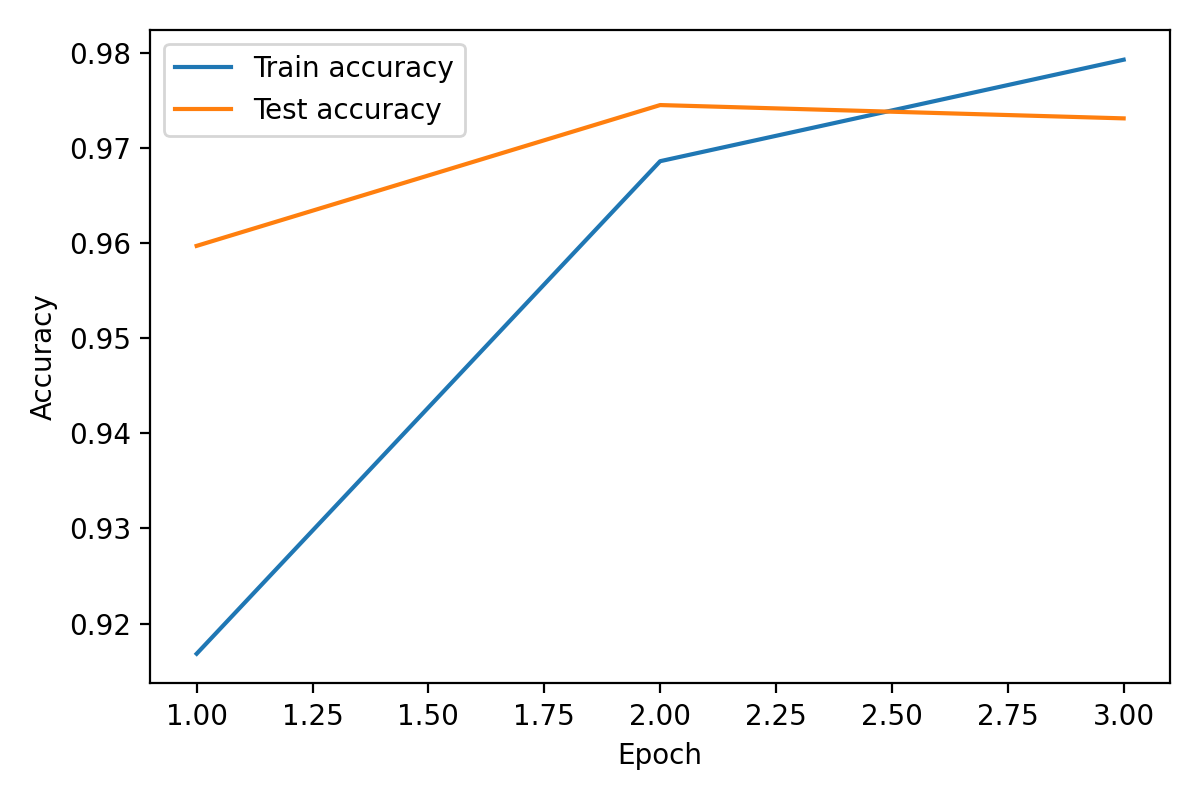
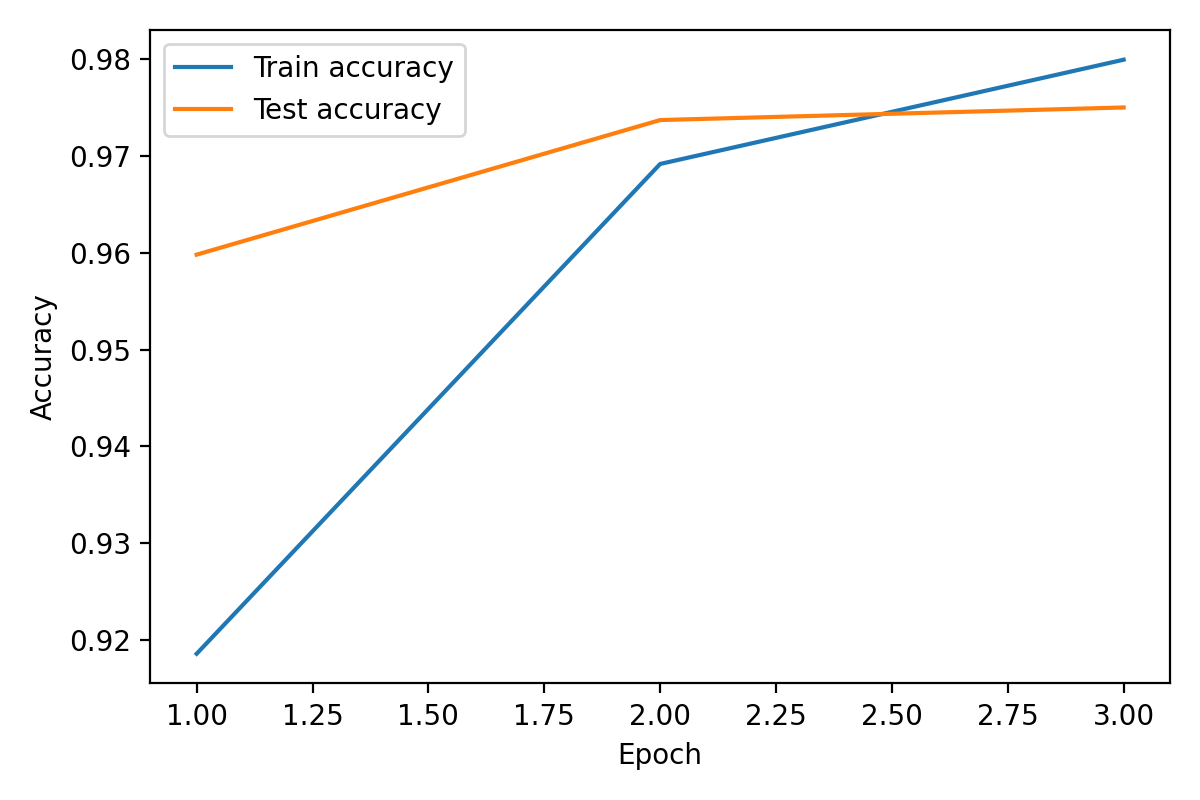
I changed the layout of the results to be more readable

diff --git a/scripts/quantization_exp.py b/scripts/quantization_exp.py
@@ -41,19 +41,33 @@ def main():
     apply_qdq_to_linear_weights_inplace(qmodel)
     q_loss, q_accuracy = evaluate(qmodel, test_loader, loss_fn, device)
     
-    # Storage estimates (weights only)
+    # Storage estimates (stored format: int8 weights + scale + bias)
     fp32_bytes = estimate_fp32_weight_bytes(model)
     compressed_bytes = estimate_compressed_storage_bytes_from_model(model)
+    
+    acc_drop = base_accuracy - q_accuracy
+    ratio = (fp32_bytes / compressed_bytes) if compressed_bytes >= 0 else float("inf")
         
-    print("\nQuantization Storage Results (symmetric int8 stored format)\n")
-    print(f"FP32 accuracy: {base_accuracy:.4f}   loss: {base_loss:.4f}\n")
-    print(f"QDQ accuracy (simulated): {q_accuracy:.4f}   loss: {q_loss:.4f}")
-    print(f"Accuracy drop vs FP32: {base_accuracy - q_accuracy:.4f}")
+    print("\n" + "=" * 70)
+    print("Quantization Experiment (MNIST)".center(70))
+    print("=" * 70)
 
-    print("Storage estimate (weights + scale + bias):")
-    print(f"FP32 weights (RAM/reference): {fmt_bytes(fp32_bytes)}")
-    print(f"Compressed stored (int8+meta): {fmt_bytes(compressed_bytes)}")
-    print(f"Compression ratio: {fp32_bytes / compressed_bytes:.2f}x")
+    print("\n[Setup]")
+    print(f"  Checkpoint     : {ckpt_path}")
+    print("  Method         : symmetric int8 (stored), QDQ simulated (FP32 compute)")
+
+    print("\n[Accuracy]")
+    print(f"  FP32 baseline  : {base_accuracy:.4f}   (loss {base_loss:.4f})")
+    print(f"  QDQ simulated  : {q_accuracy:.4f}   (loss {q_loss:.4f})")
+    print(f"  Accuracy drop vs FP32   : {acc_drop:+.4f}")
+
+    print("\n[Storage]")
+    print(f"  FP32 weights (B)        : {fmt_bytes(fp32_bytes)}")
+    print(f"  Stored int8+meta (B)    : {fmt_bytes(compressed_bytes)}")
+    print(f"  Compression ratio       : {ratio:.2f}x")
+    print("  (int8+meta = int8 weights + FP32 scale + FP32 bias + layer metadata)")
+
+    print("=" * 70 + "\n")
 
     
     

diff --git a/scripts/prune_quant.py b/scripts/prune_quant.py
@@ -45,7 +45,7 @@ def main():
     # The drop is "how much accuracy there is lost compared to the original FP32 model"
     header = (
         f"{'prune':>6} | {'sparsity%':>9} | {'acc_pruned':>10} | {'acc_prune+qdq':>15} | "
-        f"{'drop':>11} | {'stored_int8':>12} | {'ratio':>7}"
+        f"{'drop':>11} | {'stored_int8':>15} | {'ratio':>7}"
     )
     print(header)
     print("-" * len(header))
@@ -83,7 +83,7 @@ def main():
         
         print(
             f"{amount:6.2f} | {sparsity_pct:9.2f} | {prune_accuracy:10.4f} | {pq_accuracy:15.4f} | "
-            f"{base_accuracy - pq_accuracy:11.4f} | {stored_kb:>9.2} | {ratio:7.2f}"
+            f"{base_accuracy - pq_accuracy:11.4f} | {stored_kb:>11} KB | {ratio:7.2f}"
         )
 
         

diff --git a/scripts/pruning_sweep.py b/scripts/pruning_sweep.py
@@ -58,12 +58,12 @@ def main():
     
     # Print results as a table
     print("\nPruning Sweep Results\n")
-    header = f"{'amount':>8} | {'sparsity(%)':>11} | {'accuracy_before':>10} | {'accuracy_after':>9} | {'drop':>0}"
+    header = f"{'amount':>8} | {'sparsity(%)':>11} | {'accuracy_before':>10} | {'accuracy_after':>9} | {'drop':>8}"
     print(header)
     print("-" * len(header))
     
     for amount, sp_pct, accuracy_b, accuracy_a, drop, loss_b, loss_a in results:
-        print(f"{amount:8.2f} | {sp_pct:9.2f} | {accuracy_b:10.4f} | {accuracy_a:9.4f} | {drop:8.4f}")
+        print(f"{amount:8.2f} | {sp_pct:11f} | {accuracy_b:15f} | {accuracy_a:14f} | {drop:8.4f}")
             
     
 if __name__ == "__main__":
